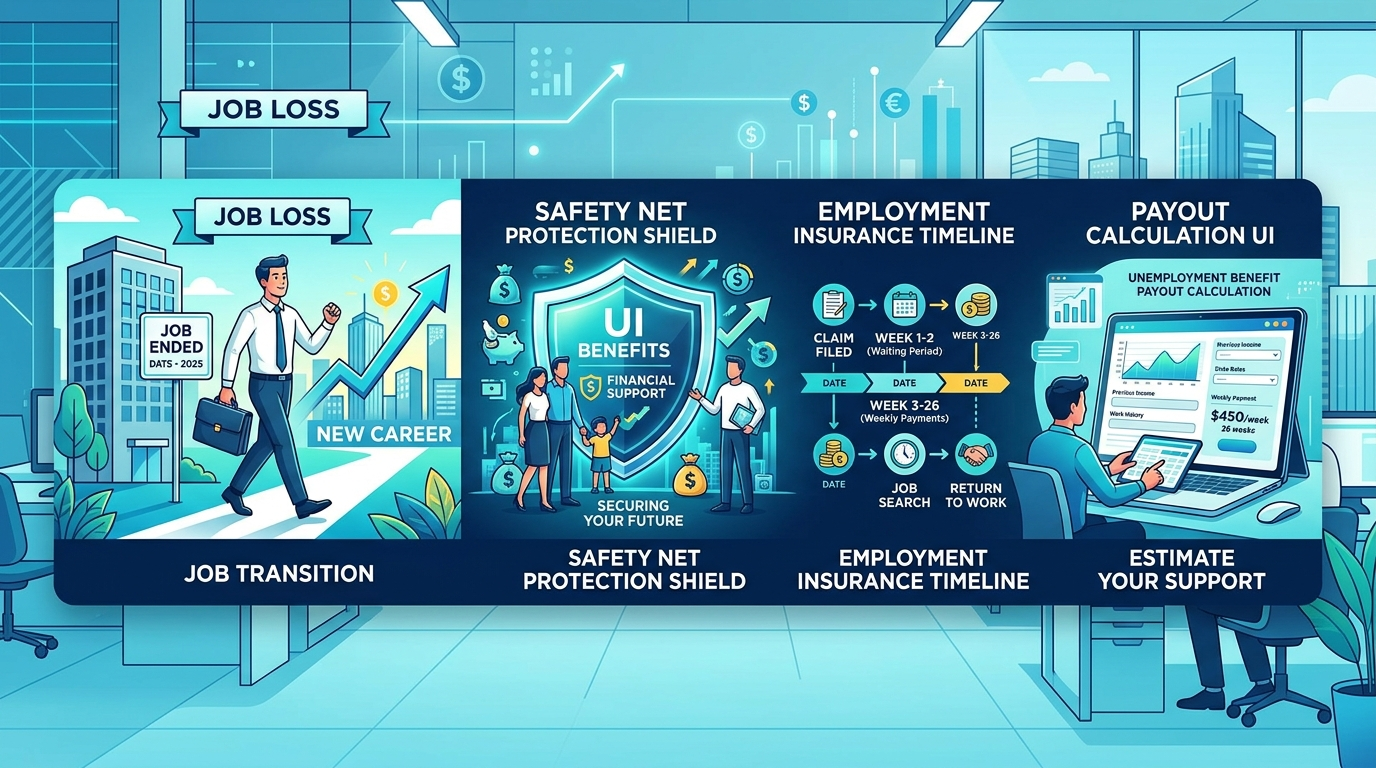
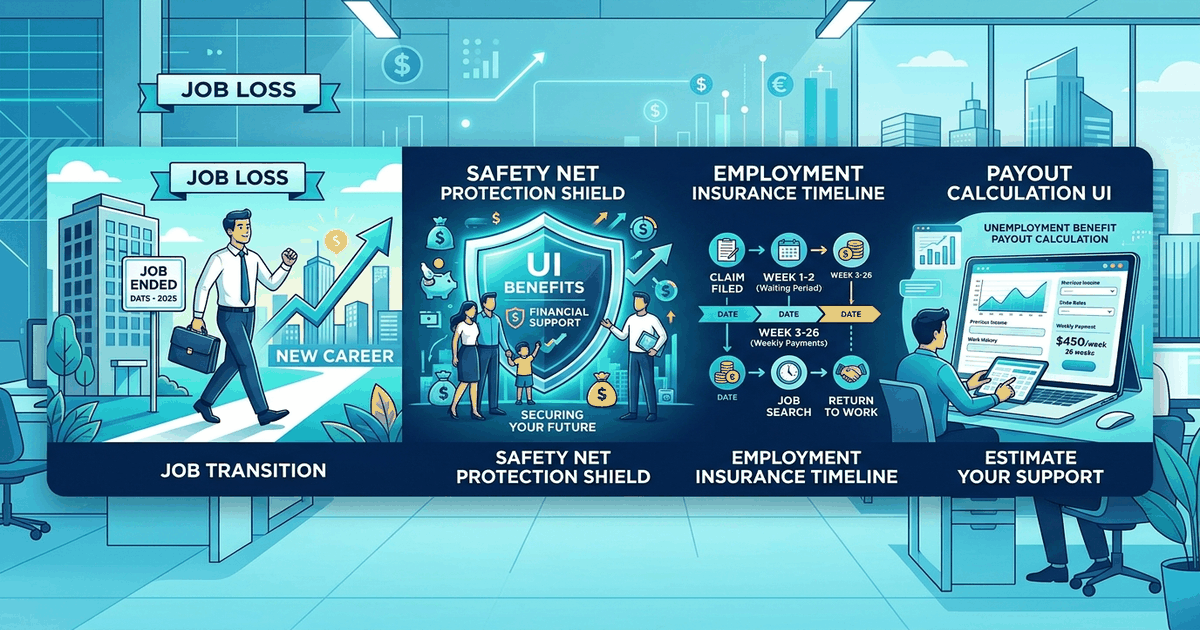
feat(social): optimize og-image (1200x630) and synchronize Open Graph & Twitter Card tags

diff --git a/index.html b/index.html
@@ -101,7 +101,6 @@
 </header>
 <!-- 상단 슬림 띠배너 (헤더 직하단: 50~60px 슬림형) -->
 <div class="manual-ad-box ad-top-banner" style="width: 100%; max-width: 960px; margin: 8px auto 16px; text-align: center;">
-
 <ins class="adsbygoogle" data-ad-client="ca-pub-2228289204702106" data-ad-format="horizontal" data-ad-slot="3824727725" data-full-width-responsive="true" style="display:inline-block;width:100%;height:60px;"></ins>
 <script>(adsbygoogle = window.adsbygoogle || []).push({});</script>
 </div>
@@ -348,40 +347,37 @@
 <!-- 본문 중간 반응형 배너 -->
 </section></div></main>
 <!-- Footer -->
-
 <!-- 🔗 연관 유틸리티 도구 추천 카드 (사용자 체류시간 증가 & SEO 내부 링크) -->
 <section class="max-w-4xl mx-auto my-8 px-4">
-  <div class="bg-slate-50 dark:bg-slate-900/60 border border-slate-200 dark:border-slate-800 rounded-2xl p-6 shadow-sm">
-    <h3 class="text-base font-black text-slate-900 dark:text-white mb-4 flex items-center gap-2">
-      <span>💡</span> 함께 많이 활용하는 필수 계산기 & 도구
+<div class="bg-slate-50 dark:bg-slate-900/60 border border-slate-200 dark:border-slate-800 rounded-2xl p-6 shadow-sm">
+<h3 class="text-base font-black text-slate-900 dark:text-white mb-4 flex items-center gap-2">
+<span>💡</span> 함께 많이 활용하는 필수 계산기 &amp; 도구
     </h3>
-    <div class="grid grid-cols-1 sm:grid-cols-3 gap-3.5">
-      
-      <a href="https://severance.enjoy-onepage.com/" class="p-4 bg-white dark:bg-slate-800 rounded-xl border border-slate-200 dark:border-slate-700 hover:border-blue-500 hover:shadow-md transition flex items-center justify-between group">
-        <div>
-          <div class="text-xs text-blue-600 dark:text-blue-400 font-bold mb-1">추천 유틸리티</div>
-          <div class="text-sm font-black text-slate-800 dark:text-slate-100 group-hover:text-blue-600 transition">퇴직금 계산기</div>
-        </div>
-        <span class="text-slate-400 group-hover:translate-x-1 transition font-bold">→</span>
-      </a>
-      <a href="https://overtime.enjoy-onepage.com/" class="p-4 bg-white dark:bg-slate-800 rounded-xl border border-slate-200 dark:border-slate-700 hover:border-blue-500 hover:shadow-md transition flex items-center justify-between group">
-        <div>
-          <div class="text-xs text-blue-600 dark:text-blue-400 font-bold mb-1">추천 유틸리티</div>
-          <div class="text-sm font-black text-slate-800 dark:text-slate-100 group-hover:text-blue-600 transition">야근·휴일수당 계산기</div>
-        </div>
-        <span class="text-slate-400 group-hover:translate-x-1 transition font-bold">→</span>
-      </a>
-      <a href="https://calc-half-leave.enjoy-onepage.com/" class="p-4 bg-white dark:bg-slate-800 rounded-xl border border-slate-200 dark:border-slate-700 hover:border-blue-500 hover:shadow-md transition flex items-center justify-between group">
-        <div>
-          <div class="text-xs text-blue-600 dark:text-blue-400 font-bold mb-1">추천 유틸리티</div>
-          <div class="text-sm font-black text-slate-800 dark:text-slate-100 group-hover:text-blue-600 transition">반차·연차 시간 계산기</div>
-        </div>
-        <span class="text-slate-400 group-hover:translate-x-1 transition font-bold">→</span>
-      </a>
-    </div>
-  </div>
+<div class="grid grid-cols-1 sm:grid-cols-3 gap-3.5">
+<a class="p-4 bg-white dark:bg-slate-800 rounded-xl border border-slate-200 dark:border-slate-700 hover:border-blue-500 hover:shadow-md transition flex items-center justify-between group" href="https://severance.enjoy-onepage.com/">
+<div>
+<div class="text-xs text-blue-600 dark:text-blue-400 font-bold mb-1">추천 유틸리티</div>
+<div class="text-sm font-black text-slate-800 dark:text-slate-100 group-hover:text-blue-600 transition">퇴직금 계산기</div>
+</div>
+<span class="text-slate-400 group-hover:translate-x-1 transition font-bold">→</span>
+</a>
+<a class="p-4 bg-white dark:bg-slate-800 rounded-xl border border-slate-200 dark:border-slate-700 hover:border-blue-500 hover:shadow-md transition flex items-center justify-between group" href="https://overtime.enjoy-onepage.com/">
+<div>
+<div class="text-xs text-blue-600 dark:text-blue-400 font-bold mb-1">추천 유틸리티</div>
+<div class="text-sm font-black text-slate-800 dark:text-slate-100 group-hover:text-blue-600 transition">야근·휴일수당 계산기</div>
+</div>
+<span class="text-slate-400 group-hover:translate-x-1 transition font-bold">→</span>
+</a>
+<a class="p-4 bg-white dark:bg-slate-800 rounded-xl border border-slate-200 dark:border-slate-700 hover:border-blue-500 hover:shadow-md transition flex items-center justify-between group" href="https://calc-half-leave.enjoy-onepage.com/">
+<div>
+<div class="text-xs text-blue-600 dark:text-blue-400 font-bold mb-1">추천 유틸리티</div>
+<div class="text-sm font-black text-slate-800 dark:text-slate-100 group-hover:text-blue-600 transition">반차·연차 시간 계산기</div>
+</div>
+<span class="text-slate-400 group-hover:translate-x-1 transition font-bold">→</span>
+</a>
+</div>
+</div>
 </section>
-
 <footer class="bg-white border-t border-slate-200 mt-12 py-8 text-xs text-slate-500">
 <div class="max-w-4xl mx-auto px-4 space-y-4">
 <div class="flex flex-wrap items-center justify-between gap-4">
@@ -403,7 +399,6 @@
 </footer>
 <!-- 하단 대형 배너 (푸터 직전) -->
 <div class="manual-ad-box ad-bottom-banner" style="width: 100%; max-width: 960px; margin: 24px auto 16px; text-align: center;">
-
 <ins class="adsbygoogle" data-ad-client="ca-pub-2228289204702106" data-ad-format="auto" data-ad-slot="3416334507" data-full-width-responsive="true" style="display:block"></ins>
 <script>(adsbygoogle = window.adsbygoogle || []).push({});</script>
 </div>
